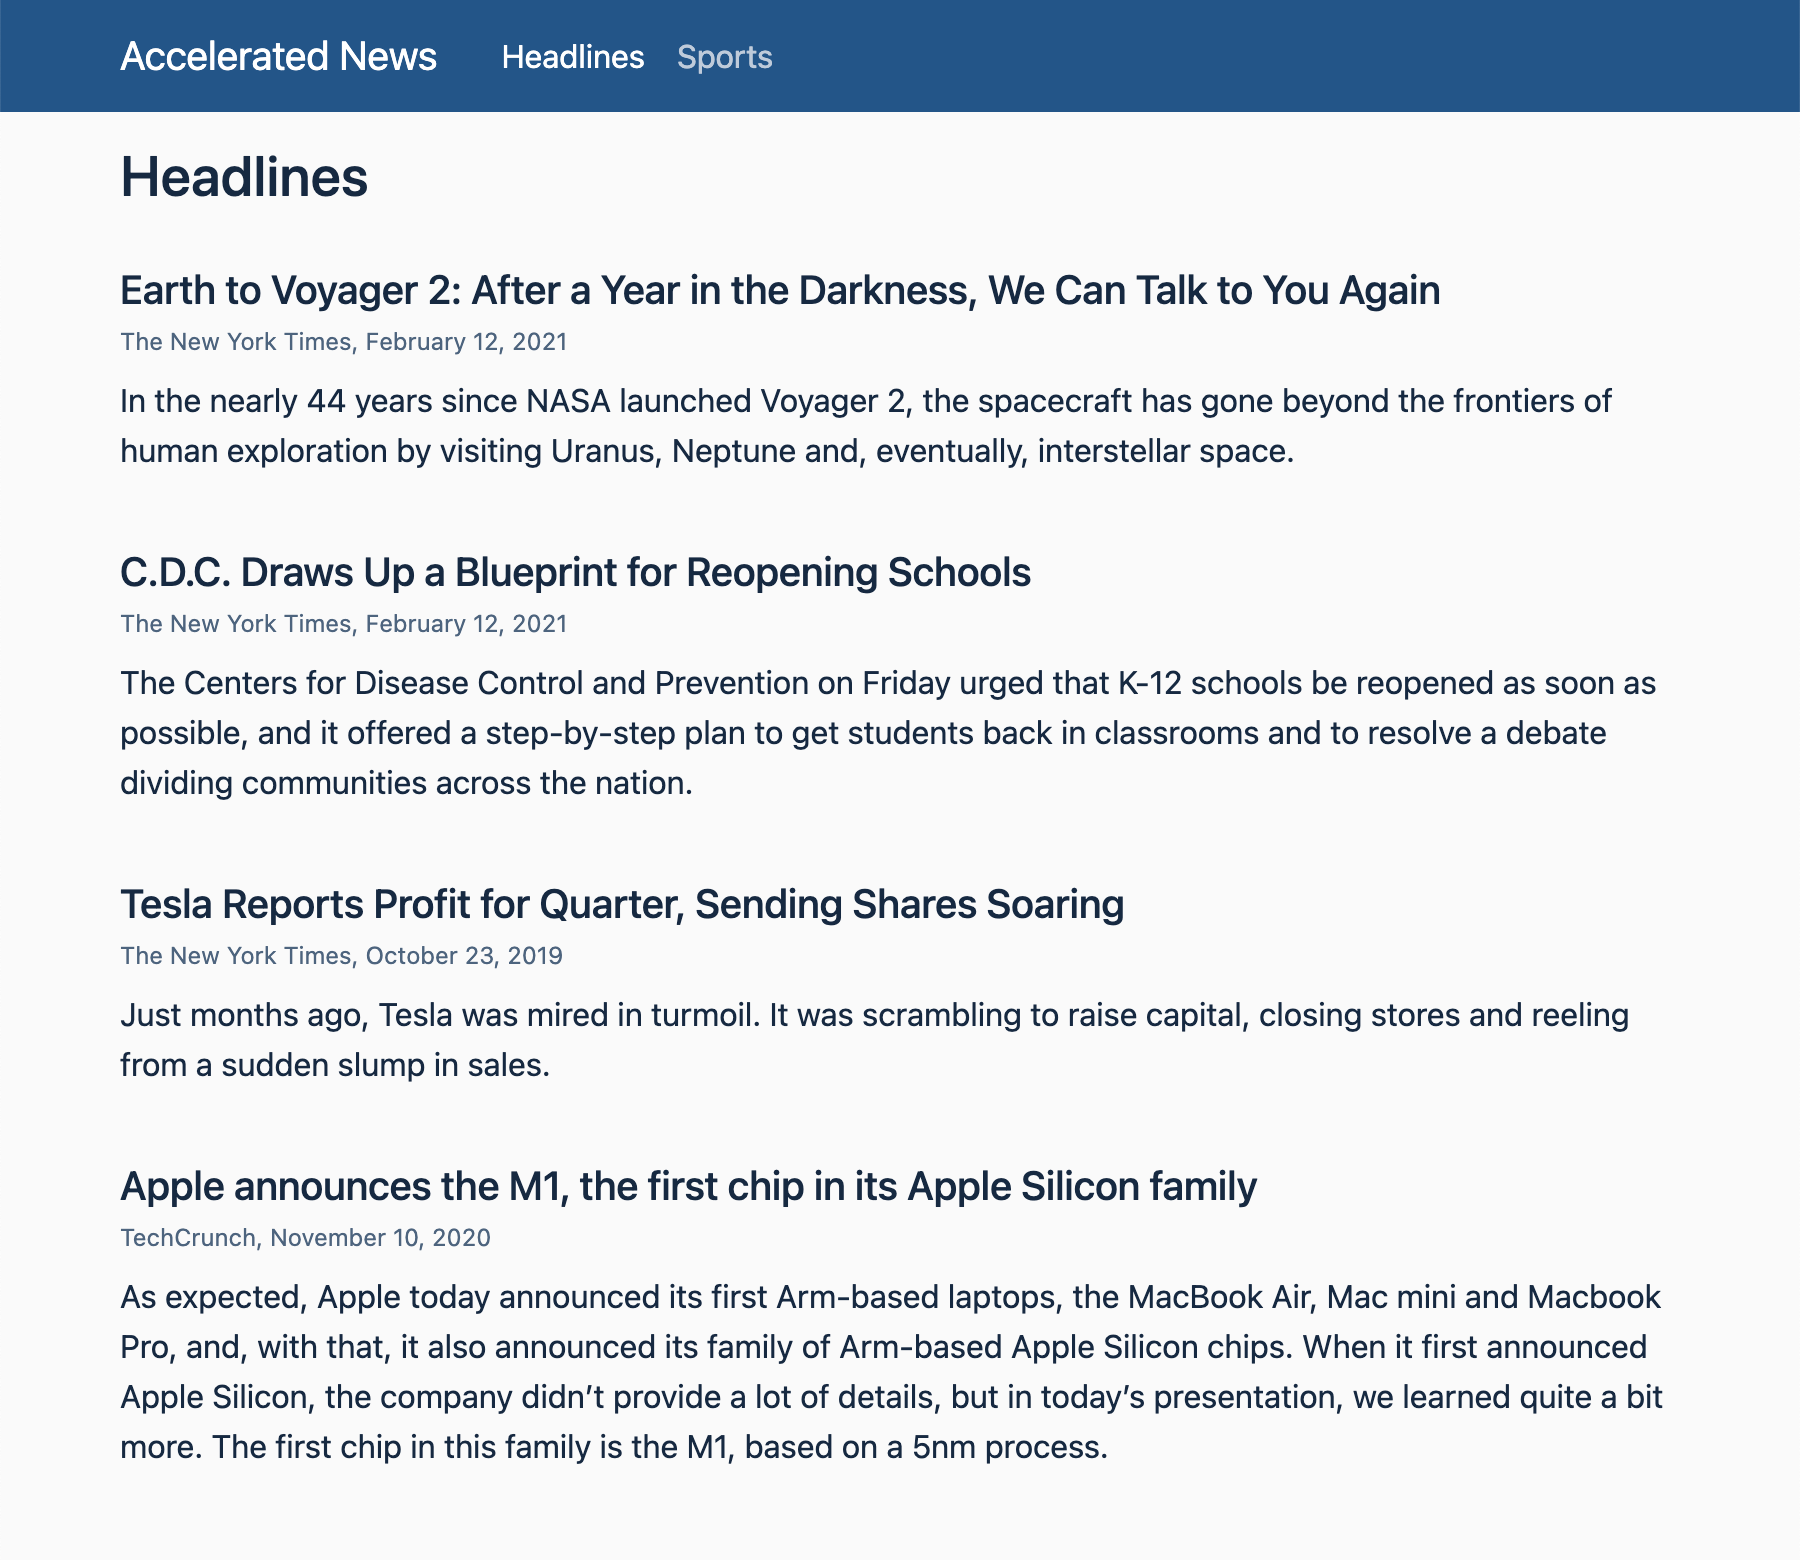
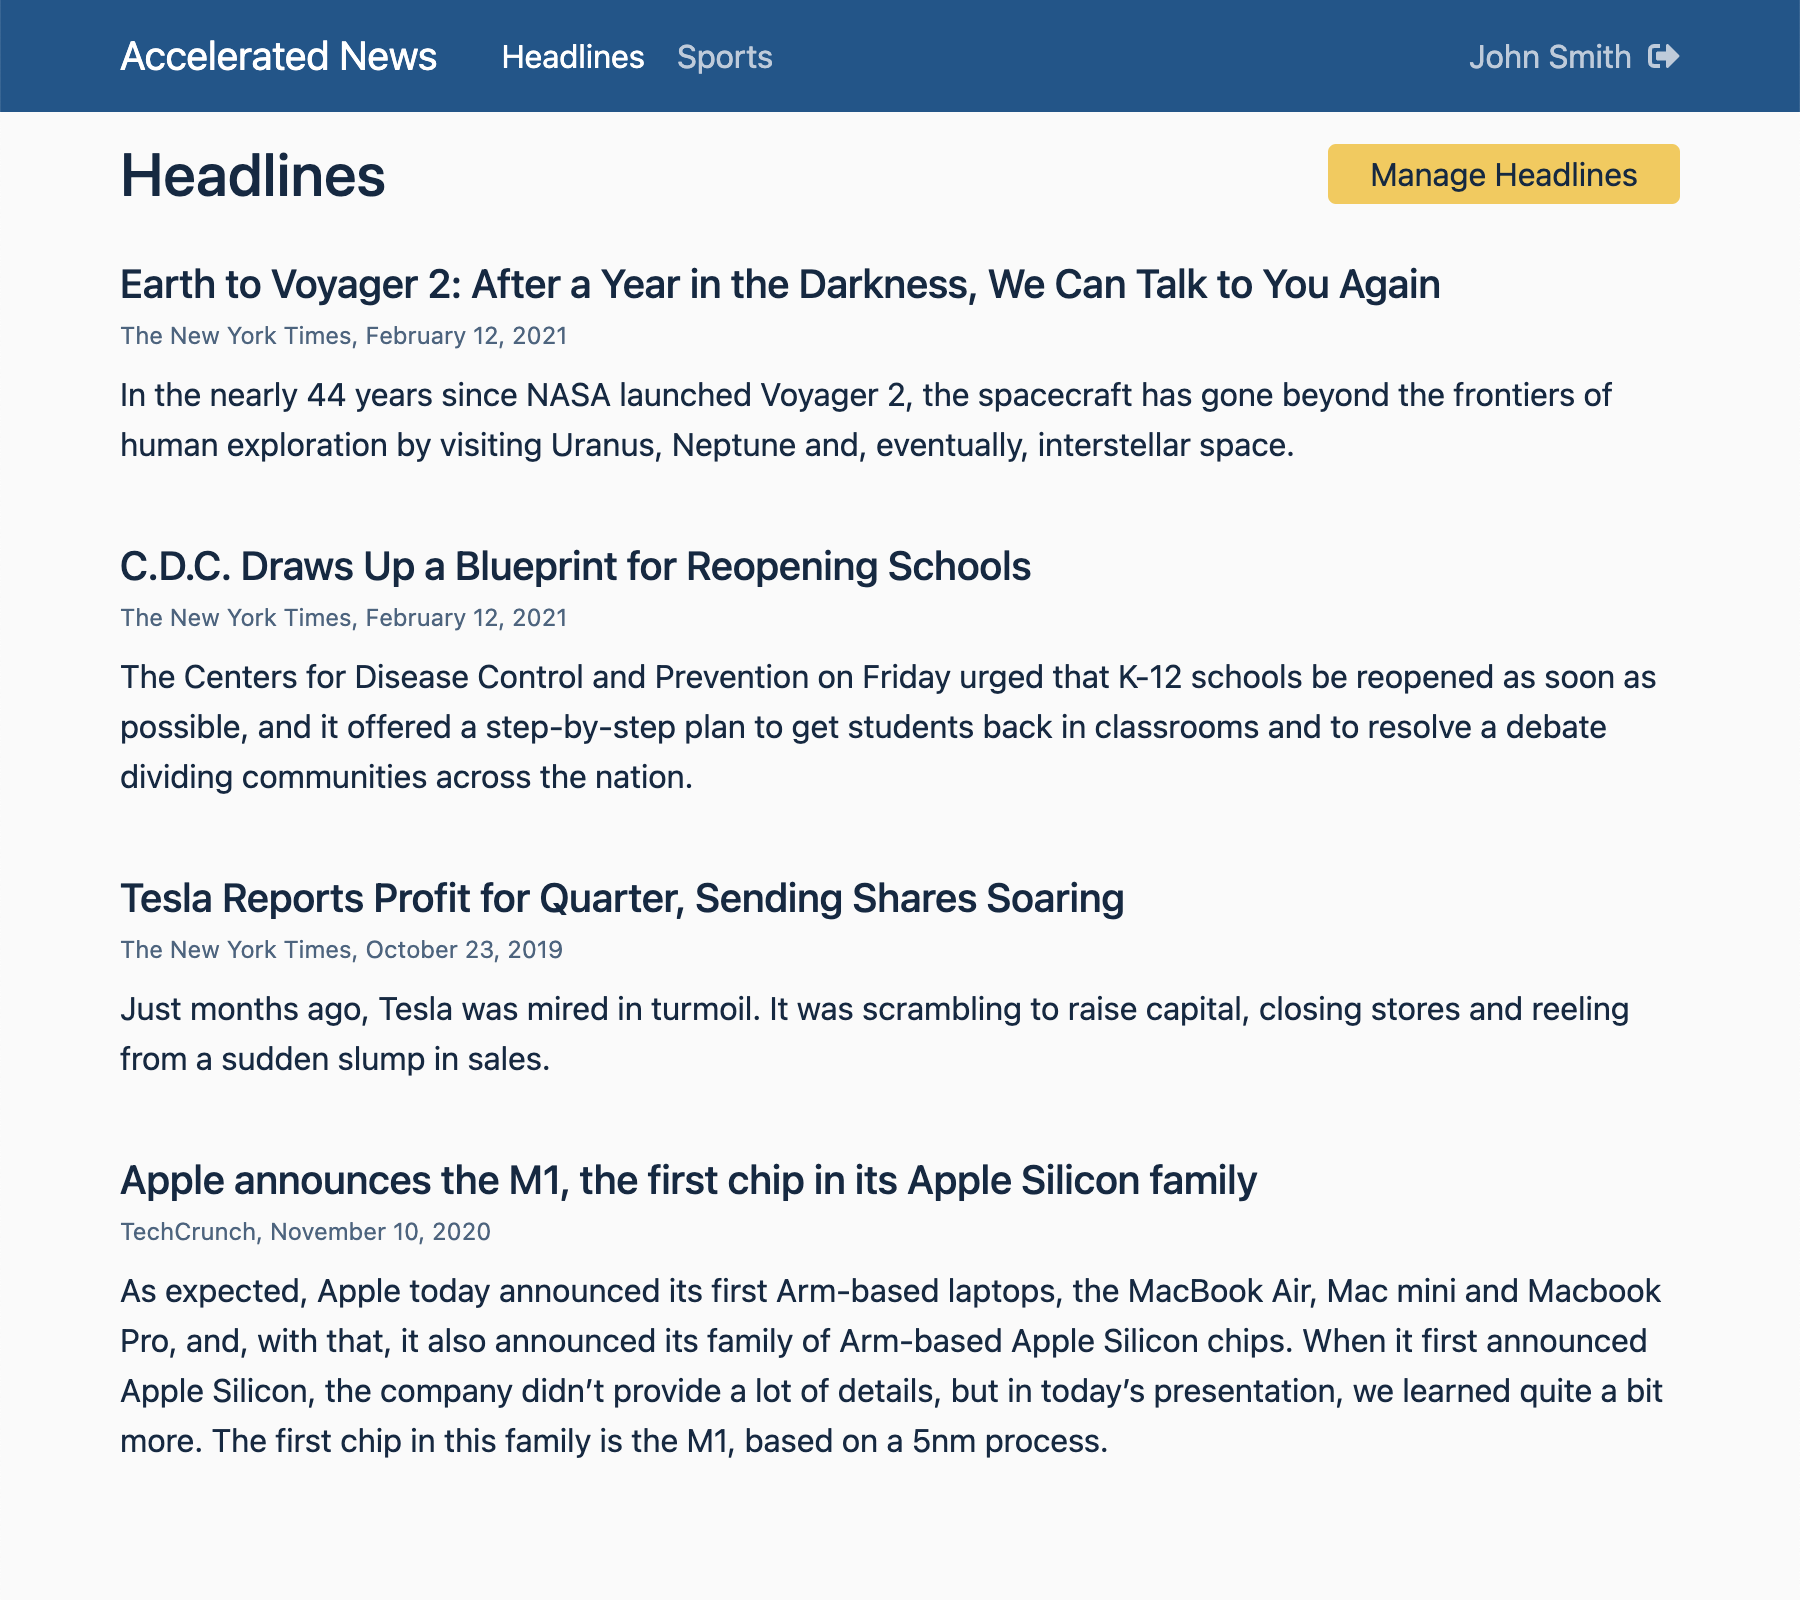
docs: updated README.md

diff --git a/README.md b/README.md
@@ -66,6 +66,19 @@ to authenticated users.
 6. We are using [React Query](https://react-query.tanstack.com/) to manage
    server state. You can find introductory videos on React Query
    [here](https://react-query.tanstack.com/videos).
+7. We have added token-based authentication to the application.
+   - Users can sign up by supplying some basic information.
+   - Once signed up, they can sign in using their credentials. If the
+     credentials match, the server returns a unique access token to the
+     front-end.
+   - The front-end saves the access token in localStorage and returns it to the
+     server in every HTTP request. The server uses this token to identify the
+     user making the request.
+   - When the user signs out, the access token is deleted from localStorage.
+8. Authenticated users can add, update or delete news headlines on the Manage
+   Headlines page. Access to this page is granted only to authenticated users.
+   This is implemented using a `PrivateRoute` component, which extends react
+   router's `Route` component.
 
 ## Getting Started
 
